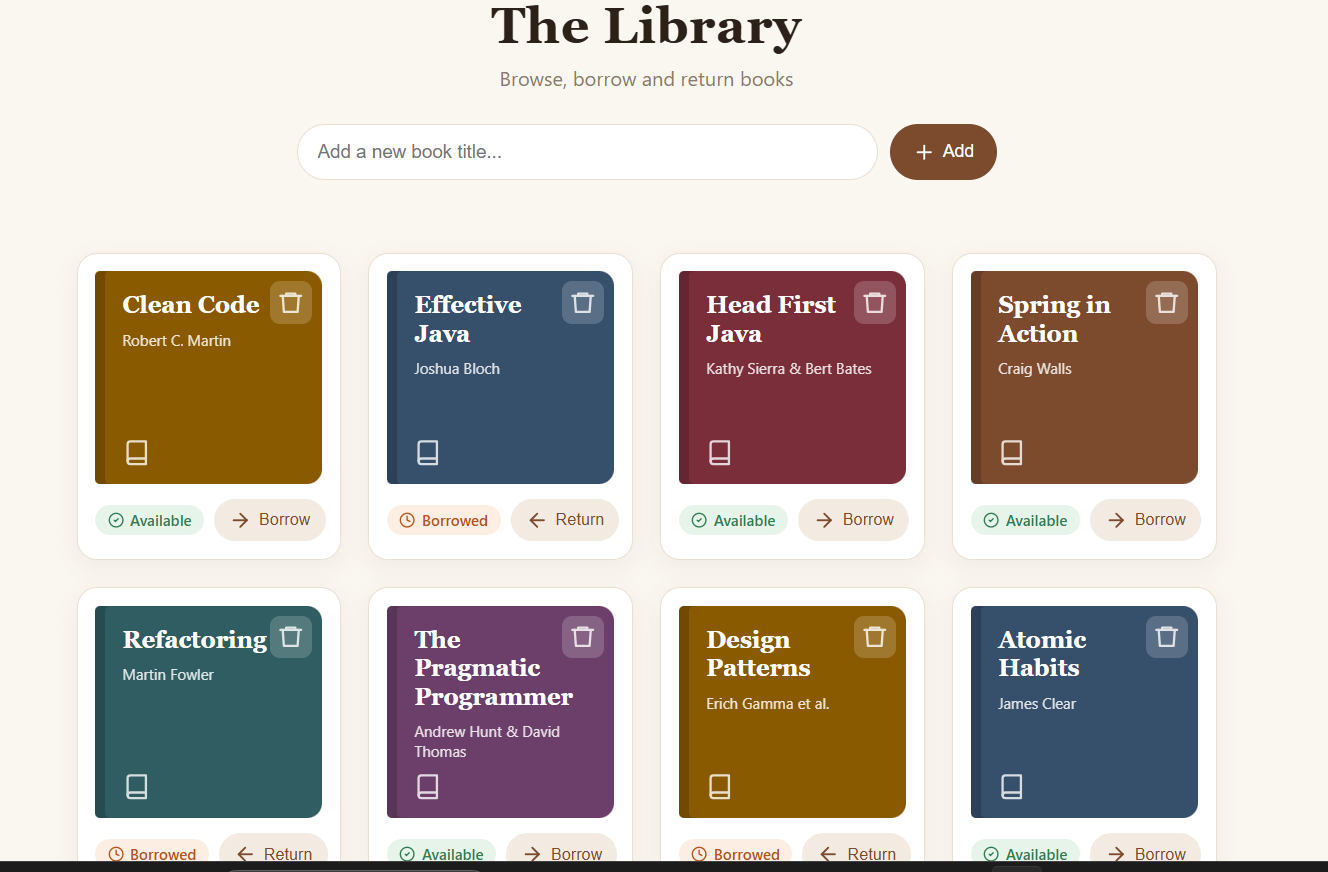
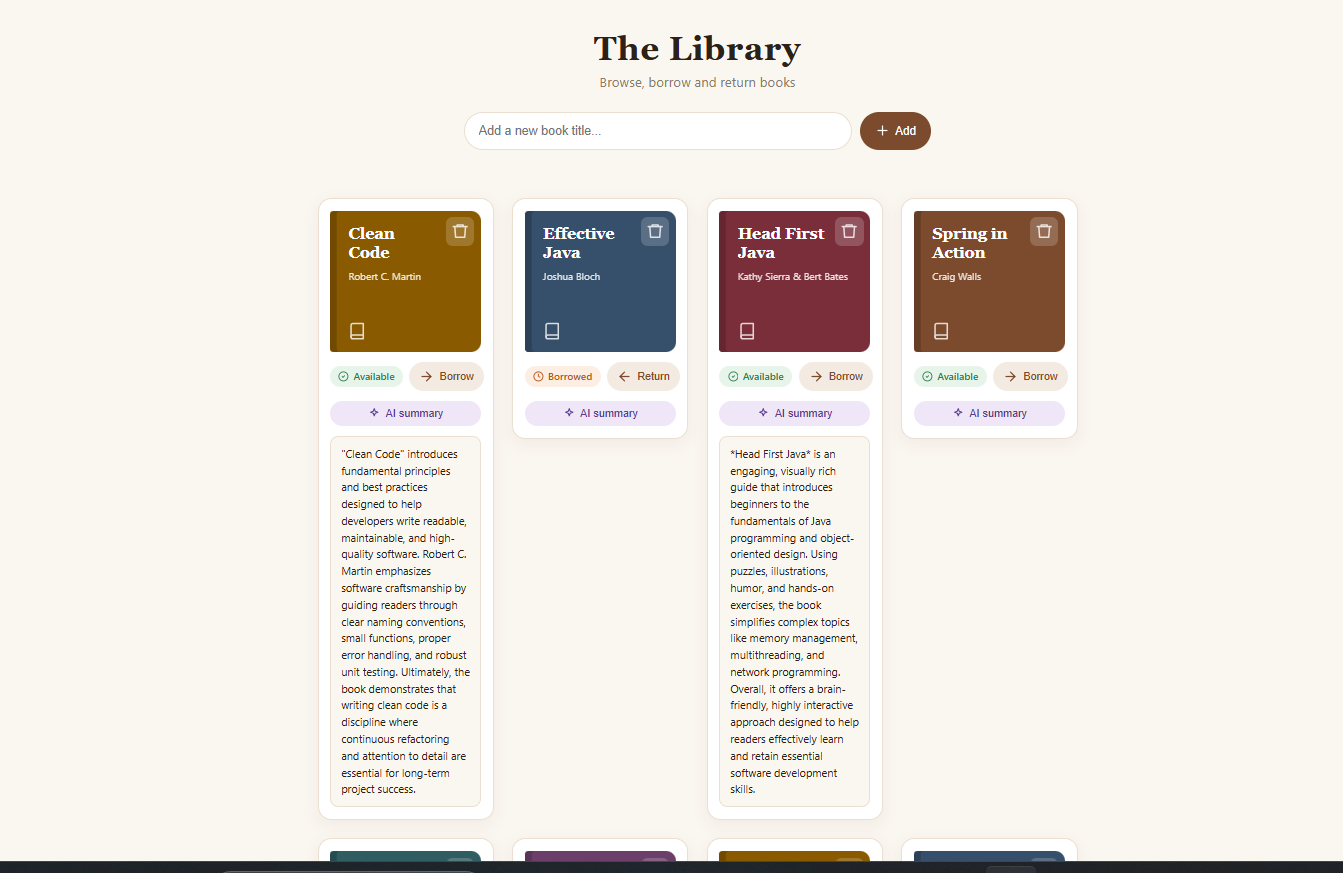
Update page screenshot

diff --git a/README.md b/README.md
@@ -1,12 +1,13 @@
 # Library API
 
-A library management REST API built with **Java 21** and **Spring Boot**, with a simple web page to browse, borrow, return and delete books.
+A library management REST API built with **Java 21** and **Spring Boot**, with a simple web page to browse, borrow, return and delete books, plus AI-generated book summaries.
 
 ![Library page](docs/screenshot.png)
 
 ## Features
 - List, add and delete books
 - Borrow and return a book (availability is tracked)
+- AI-generated book summaries powered by Gemini
 - Data is stored in a file-based H2 database, so it survives restarts
 - Sample books are added automatically on first run
 - Simple HTML page served by Spring Boot
@@ -15,10 +16,13 @@ A library management REST API built with **Java 21** and **Spring Boot**, with a
 - Java 21, Spring Boot, Maven
 - Spring Web (REST), Spring Data JPA / Hibernate
 - H2 database
+- Gemini API (called from the backend with `RestClient`)
 - HTML, CSS and JavaScript (single page)
 
 ## Architecture
 `Controller` (HTTP requests) -> `Library` service (business logic) -> `BookRepository` (database)
+
+`GeminiService` calls the Gemini API to summarize a book.
 
 ## API endpoints
 | Method | Endpoint | Description |
@@ -28,11 +32,13 @@ A library management REST API built with **Java 21** and **Spring Boot**, with a
 | PUT | `/books/{title}/borrow` | Borrow a book |
 | PUT | `/books/{title}/return` | Return a book |
 | DELETE | `/books/{id}` | Delete a book |
+| GET | `/books/{id}/summary` | AI-generated summary of a book |
 
 Example request body for `POST /books`:
 ```json
 { "title": "Clean Code", "author": "Robert C. Martin" }
 ```
+
 ## Backend in action
 
 `GET /books` returns the books as JSON:
@@ -55,6 +61,8 @@ Requirements: Java 21.
 ```
 Then open http://localhost:8080
 
+To enable AI summaries, set a `GEMINI_API_KEY` environment variable with your own Gemini API key. The rest of the app works without it.
+
 ## Roadmap
-- [ ] AI-generated book summaries
+- [x] AI-generated book summaries
 - [ ] Deployment to AWS
